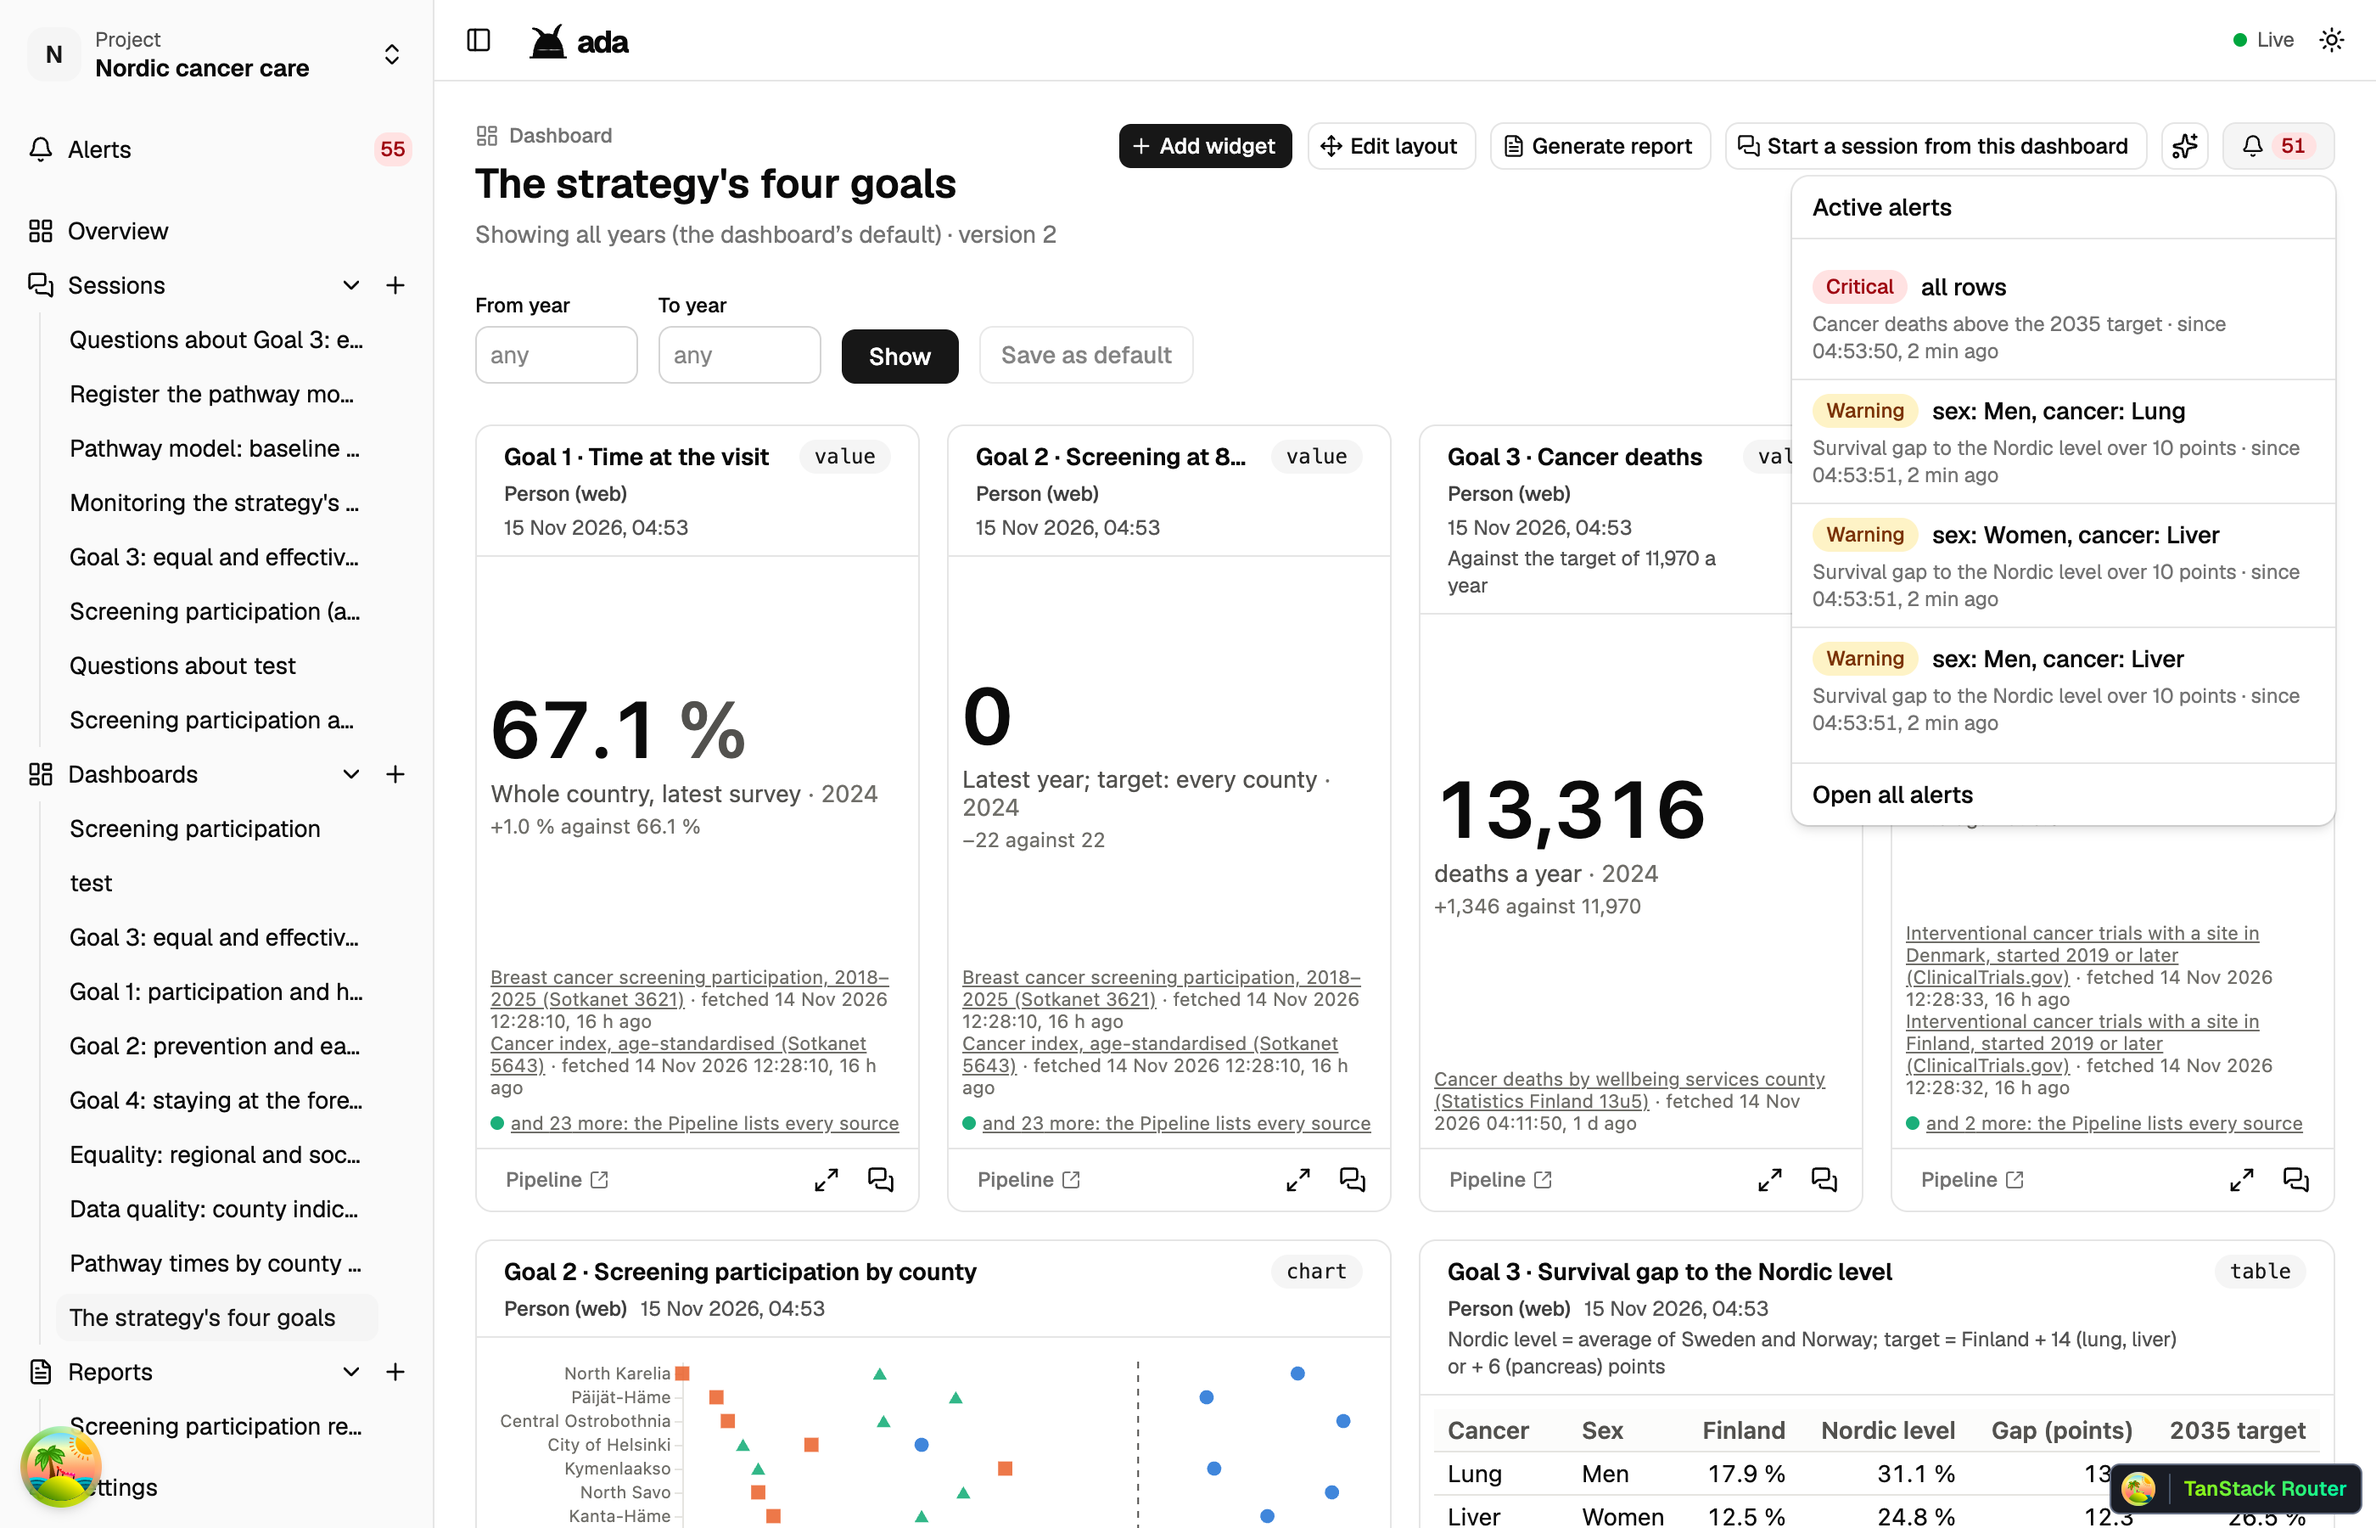
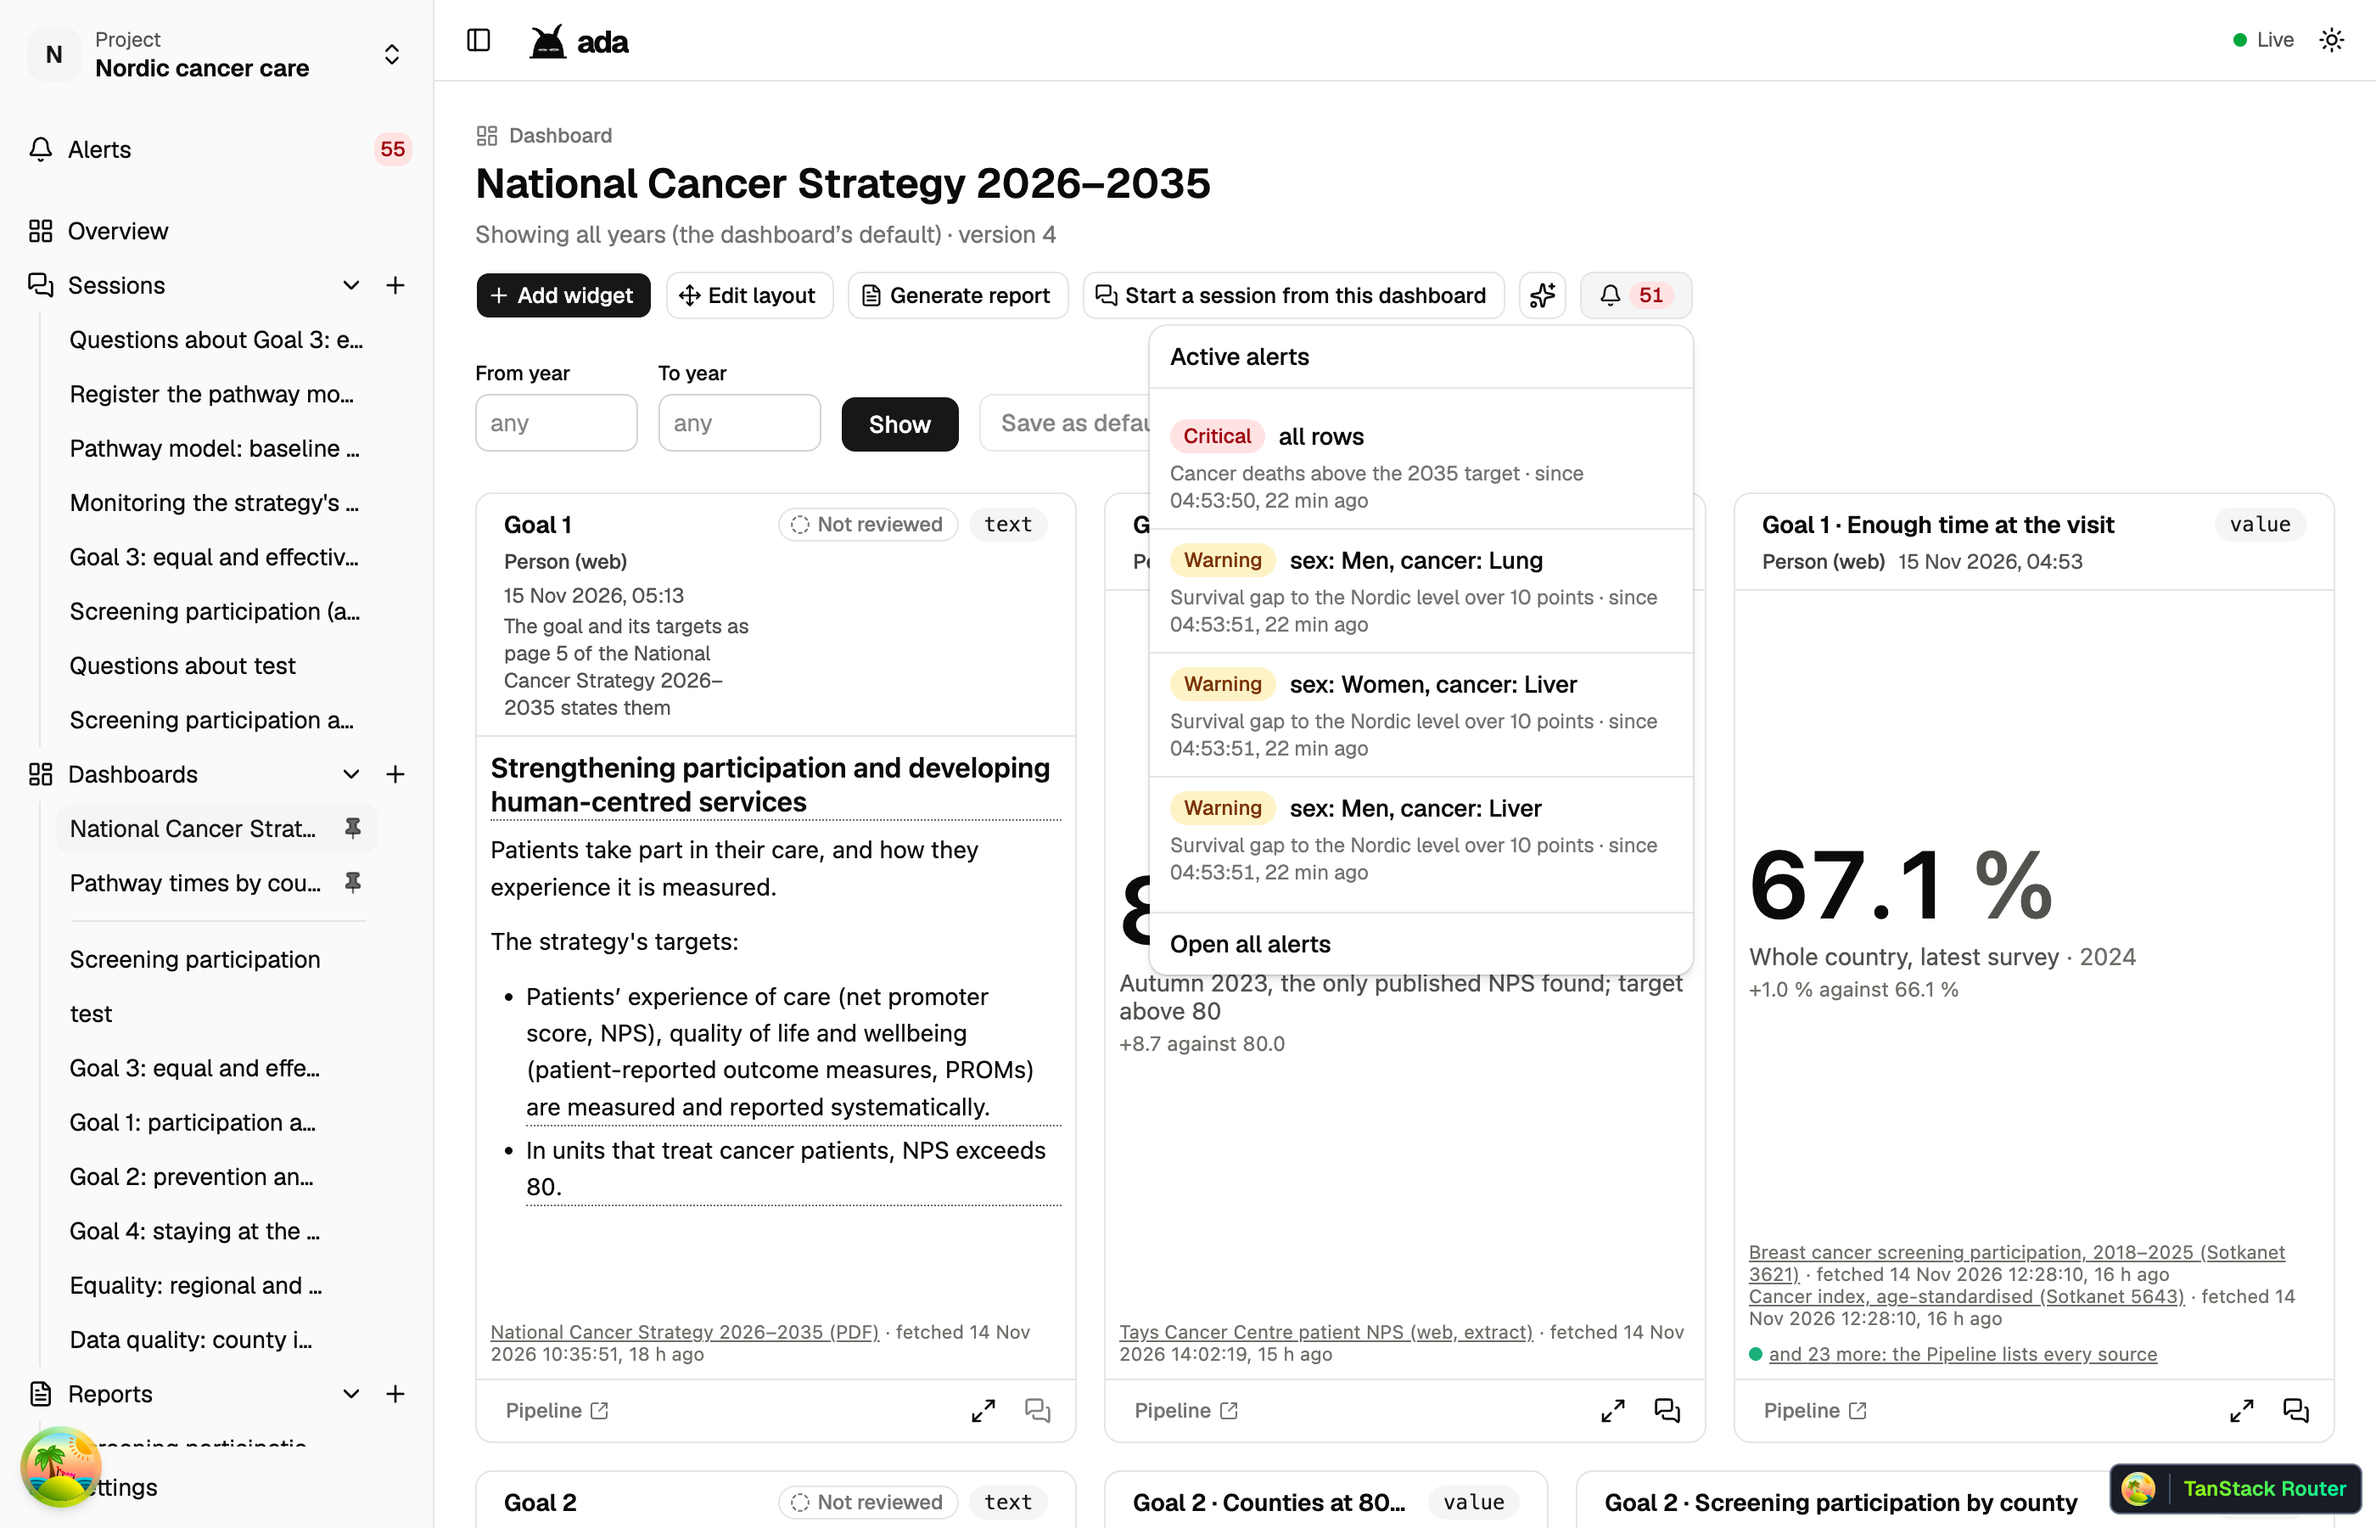
Walk the pitch through the strategy dashboard goal by goal
The camera moves down 'National Cancer Strategy 2026-2035' one goal band
at a time, each with its banner and the pointer on its headline figure,
then opens the alerts with the critical one first.

diff --git a/pitches/nordic-cancer/src/scenes/GoalsScene.tsx b/pitches/nordic-cancer/src/scenes/GoalsScene.tsx
@@ -4,25 +4,42 @@ import { Cursor } from '../Cursor'
 import { s } from '../frame'
 import { LowerThird } from '../LowerThird'
 
-/** Screenshots of the "The strategy's four goals" dashboard in ADA, light mode: as it is,
- * and with its bell opened on the active alerts. */
-const DASHBOARD = 'goals-dashboard.png'
+/** Screenshots of the "National Cancer Strategy 2026–2035" dashboard in ADA, light mode: the
+ * whole page (a tall viewport), and its top with the bell opened on the active alerts. Both
+ * are 1400 CSS px wide, shown 1920 wide. */
+const PAGE = 'goals-full.png'
 const ALERTS = 'goals-alerts.png'
 
-const CLICK = s(7)
+// One goal band per row of the dashboard, 1.15 times larger, its cards centred.
+const ZOOM = 1.15
+const X = -346
+const band = (top: number) => -(top * ZOOM - 98)
+const GOAL1 = band(398)
+const GOAL2 = band(1188)
+const GOAL3 = band(1978)
+const GOAL3_MORE = band(2768)
+const GOAL4 = band(3557)
+
+const CLICK = s(9.8)
 
 const CAMERA = [
   { at: 0, scale: 1, x: 0, y: 0 },
-  { at: s(3.2), scale: 1.03, x: -14, y: -8 },
-  // The four goal tiles.
-  { at: s(3.9), scale: 1.2, x: -443, y: -335 },
-  { at: s(6), scale: 1.22, x: -456, y: -342 },
-  // Back out, to the bell.
-  { at: s(6.6), scale: 1, x: 0, y: 0 },
-  { at: CLICK + s(0.6), scale: 1, x: 0, y: 0 },
-  // The alert list, the critical one first.
-  { at: CLICK + s(1.2), scale: 1.5, x: -1200, y: -128 },
-  { at: s(11), scale: 1.52, x: -1222, y: -136 },
+  { at: s(1.1), scale: 1, x: 0, y: 0 },
+  { at: s(1.7), scale: ZOOM, x: X, y: GOAL1 },
+  { at: s(3.1), scale: ZOOM, x: X, y: GOAL1 },
+  { at: s(3.7), scale: ZOOM, x: X, y: GOAL2 },
+  { at: s(5.1), scale: ZOOM, x: X, y: GOAL2 },
+  { at: s(5.7), scale: ZOOM, x: X, y: GOAL3 },
+  { at: s(6.7), scale: ZOOM, x: X, y: GOAL3 },
+  { at: s(7.2), scale: ZOOM, x: X, y: GOAL3_MORE },
+  { at: s(7.9), scale: ZOOM, x: X, y: GOAL3_MORE },
+  { at: s(8.4), scale: ZOOM, x: X, y: GOAL4 },
+  { at: s(9.1), scale: ZOOM, x: X, y: GOAL4 },
+  // Back to the top for the bell, then into the alert list.
+  { at: s(9.4), scale: 1, x: 0, y: 0 },
+  { at: CLICK + s(0.4), scale: 1, x: 0, y: 0 },
+  { at: CLICK + s(1), scale: 1.6, x: -878, y: -300 },
+  { at: s(12), scale: 1.62, x: -890, y: -306 },
 ]
 
 function camera(frame: number) {
@@ -35,9 +52,16 @@ function camera(frame: number) {
   }
 }
 
-export const GOALS_FRAMES = s(11)
+const BANNERS = [
+  { from: s(1.7), to: s(3.5), title: 'Goal 1 · Human-centred services', line: "Each goal opens with the strategy's own targets" },
+  { from: s(3.7), to: s(5.5), title: 'Goal 2 · Prevention and early detection', line: 'No county reaches 80 % in all three screenings', accent: '#f97316' },
+  { from: s(5.7), to: s(8.2), title: 'Goal 3 · Equal and effective care', line: '1,346 deaths a year above the target; pathway times from the cases', accent: '#dc2626' },
+  { from: s(8.4), to: s(9.6), title: 'Goal 4 · Staying at the forefront', line: '6.3 trials per million against the Nordic 8.6', accent: '#2563eb' },
+]
 
-/** The four goals of the National Cancer Strategy on one dashboard, and its alerts. */
+export const GOALS_FRAMES = s(12)
+
+/** The four goals of the National Cancer Strategy, top to bottom, and the dashboard's alerts. */
 export function GoalsScene() {
   const frame = useCurrentFrame()
   const { scale, x, y } = camera(frame)
@@ -45,22 +69,30 @@ export function GoalsScene() {
   const opened = interpolate(frame, [CLICK + 3, CLICK + 8], [0, 1], { extrapolateLeft: 'clamp', extrapolateRight: 'clamp' })
   return (
     <AbsoluteFill className="overflow-hidden bg-background">
-      <Img src={staticFile(DASHBOARD)} style={{ position: 'absolute', width: 1920, transformOrigin: '0 0', transform }} />
+      <Img src={staticFile(PAGE)} style={{ position: 'absolute', width: 1920, transformOrigin: '0 0', transform }} />
       <Img src={staticFile(ALERTS)} style={{ position: 'absolute', width: 1920, transformOrigin: '0 0', transform, opacity: opened }} />
       <Cursor
         path={[
-          { at: s(0.8), x: 1500, y: 1000 },
-          { at: s(5), x: 1077, y: 440 },
-          { at: CLICK - 5, x: 1838, y: 117 },
-          { at: CLICK, x: 1838, y: 117, click: true },
-          { at: s(9), x: 1248, y: 222 },
+          { at: s(0.6), x: 1500, y: 1000 },
+          { at: s(2.6), x: 789, y: 524 },
+          { at: s(4.6), x: 758, y: 546 },
+          { at: s(6.4), x: 789, y: 537 },
+          { at: s(8.9), x: 1373, y: 534 },
+          { at: CLICK - 5, x: 1322, y: 239 },
+          { at: CLICK, x: 1322, y: 239, click: true },
+          { at: s(11.4), x: 960, y: 358 },
         ]}
       />
-      <Sequence durationInFrames={CLICK - s(0.4)}>
-        <LowerThird title="The strategy's four goals, on one dashboard" line="Each goal against its target, from open data" exitAt={CLICK - s(0.8)} />
+      <Sequence durationInFrames={s(1.6)}>
+        <LowerThird title="National Cancer Strategy 2026–2035" line="Its four goals on one dashboard, top to bottom" exitAt={s(1.3)} />
       </Sequence>
+      {BANNERS.map((banner) => (
+        <Sequence key={banner.title} from={banner.from} durationInFrames={banner.to - banner.from}>
+          <LowerThird title={banner.title} line={banner.line} accent={banner.accent} exitAt={banner.to - banner.from - s(0.3)} />
+        </Sequence>
+      ))}
       <Sequence from={CLICK + s(0.4)}>
-        <LowerThird title="Alerts when a goal slips" line="Critical: cancer deaths 1,346 above the 2035 target" accent="#dc2626" />
+        <LowerThird title="Alerts when a goal slips" line="Critical: cancer deaths above the 2035 target" accent="#dc2626" />
       </Sequence>
     </AbsoluteFill>
   )

diff --git a/pitches/nordic-cancer/src/Pitch.tsx b/pitches/nordic-cancer/src/Pitch.tsx
@@ -69,7 +69,7 @@ const SECTIONS: Section[] = [
   { name: 'Ask', frames: CHAT_FRAMES, scene: <ChatScene /> },
   {
     name: 'Sources',
-    frames: s(6),
+    frames: s(5),
     scene: (
       <Planned
         title="Open data, integrated in minutes"
